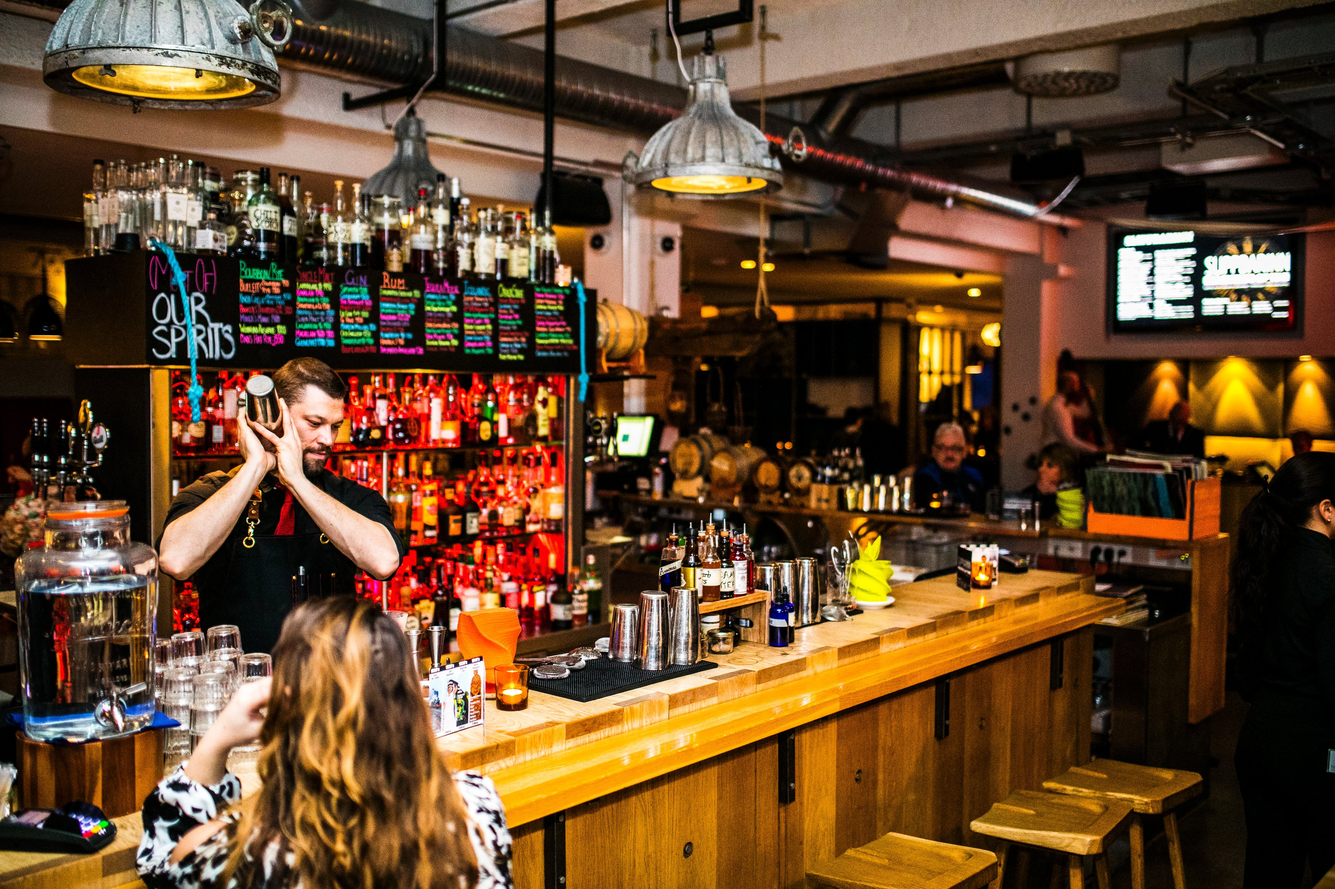
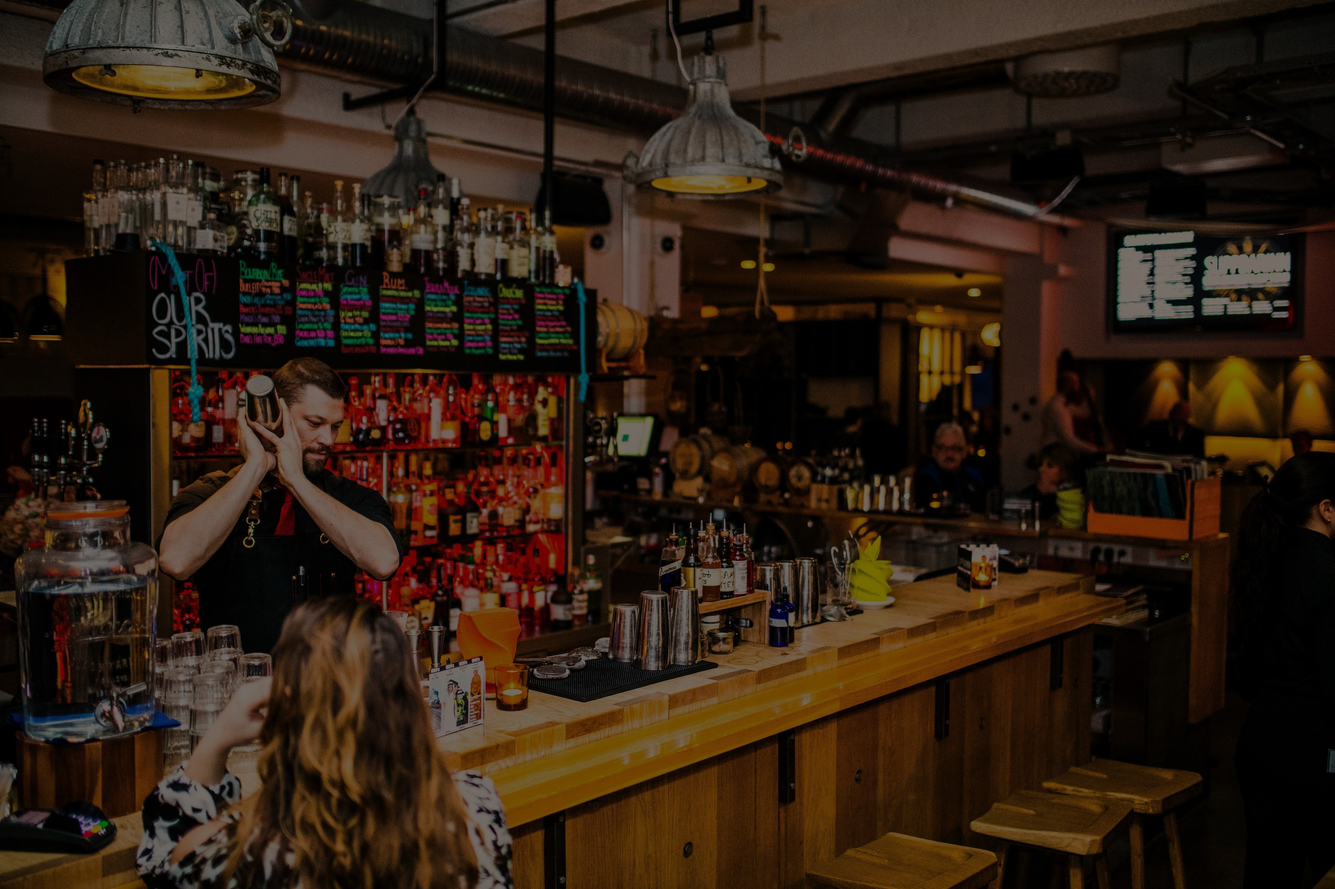
Menu styling

diff --git a/index.html b/index.html
@@ -44,10 +44,13 @@
         <div class="collapse navbar-collapse" id="navbarResponsive">
           <ul class="navbar-nav ml-auto">
             <li class="nav-item">
-              <a class="nav-link" href="#">Home</a>
+              <a class="nav-link" href="index.html">Home</a>
             </li>
             <li class="nav-item">
-              <a class="nav-link" href="#">Menu</a>
+              <a class="nav-link" href="menu.html">Menu</a>
+            </li>
+            <li class="nav-item">
+              <a class="nav-link" href="http://BandsWithLegends.com">Contact</a>
             </li>
             <li class="ml-4">
               <div class="fb-like" data-href="http://bandswithlegends.com/BarsOfMirrodin" data-width="200" data-layout="standard" data-action="recommend" data-size="large" data-show-faces="false" data-share="true"></div>
@@ -204,7 +207,40 @@
     <!-- Footer -->
     <footer class="py-5 bg-black">
       <div class="container">
-        <p class="m-0 text-center text-white small">Copyright &copy; BandsWithLegends 2018</p>
+        <ul class="row list-unstyled">
+          <li class="ml-auto">
+            <p class="m-0 text-center text-white small">Copyright &copy; BandsWithLegends 2018</p>
+          </li>
+          <li class="ml-4">
+            <a href="https://www.facebook.com/Bars-of-Mirrodin-287543865193367" target="_blank">
+              <svg viewBox="0 0 24 24" height="36px" width="36px" class="footer-social-icon">
+                <path xmlns="http://www.w3.org/2000/svg" fill="#3B5998" d="M22.676 0H1.324C.593 0 0 .593 0 1.324v21.352C0 23.408.593 24 1.324 24h11.494v-9.294H9.689v-3.621h3.129V8.41c0-3.099 1.894-4.785 4.659-4.785 1.325 0 2.464.097 2.796.141v3.24h-1.921c-1.5 0-1.792.721-1.792 1.771v2.311h3.584l-.465 3.63H16.56V24h6.115c.733 0 1.325-.592 1.325-1.324V1.324C24 .593 23.408 0 22.676 0"></path>
+              </svg>
+            </a>
+          </li>
+          <li class="ml-4">
+            <a href="https://www.twitter.com/BandsWithLegend" target="_blank">
+              <svg viewBox="0 0 24 24" height="36px" width="36px" class="footer-social-icon">
+                <path xmlns="http://www.w3.org/2000/svg" fill="#1DA1F2" d="M23.954 4.569c-.885.389-1.83.654-2.825.775 1.014-.611 1.794-1.574 2.163-2.723-.951.555-2.005.959-3.127 1.184-.896-.959-2.173-1.559-3.591-1.559-2.717 0-4.92 2.203-4.92 4.917 0 .39.045.765.127 1.124C7.691 8.094 4.066 6.13 1.64 3.161c-.427.722-.666 1.561-.666 2.475 0 1.71.87 3.213 2.188 4.096-.807-.026-1.566-.248-2.228-.616v.061c0 2.385 1.693 4.374 3.946 4.827-.413.111-.849.171-1.296.171-.314 0-.615-.03-.916-.086.631 1.953 2.445 3.377 4.604 3.417-1.68 1.319-3.809 2.105-6.102 2.105-.39 0-.779-.023-1.17-.067 2.189 1.394 4.768 2.209 7.557 2.209 9.054 0 13.999-7.496 13.999-13.986 0-.209 0-.42-.015-.63.961-.689 1.8-1.56 2.46-2.548l-.047-.02z"></path>
+              </svg>
+            </a>
+          </li>
+          <li class="ml-4">
+            <a href="https://www.instagram.com" target="_blank">
+              <svg viewBox="0 0 24 24" height="36px" width="36px" class="footer-social-icon">
+                <path xmlns="http://www.w3.org/2000/svg" fill="#E4405F" d="M12 0C8.74 0 8.333.015 7.053.072 5.775.132 4.905.333 4.14.63c-.789.306-1.459.717-2.126 1.384S.935 3.35.63 4.14C.333 4.905.131 5.775.072 7.053.012 8.333 0 8.74 0 12s.015 3.667.072 4.947c.06 1.277.261 2.148.558 2.913.306.788.717 1.459 1.384 2.126.667.666 1.336 1.079 2.126 1.384.766.296 1.636.499 2.913.558C8.333 23.988 8.74 24 12 24s3.667-.015 4.947-.072c1.277-.06 2.148-.262 2.913-.558.788-.306 1.459-.718 2.126-1.384.666-.667 1.079-1.335 1.384-2.126.296-.765.499-1.636.558-2.913.06-1.28.072-1.687.072-4.947s-.015-3.667-.072-4.947c-.06-1.277-.262-2.149-.558-2.913-.306-.789-.718-1.459-1.384-2.126C21.319 1.347 20.651.935 19.86.63c-.765-.297-1.636-.499-2.913-.558C15.667.012 15.26 0 12 0zm0 2.16c3.203 0 3.585.016 4.85.071 1.17.055 1.805.249 2.227.415.562.217.96.477 1.382.896.419.42.679.819.896 1.381.164.422.36 1.057.413 2.227.057 1.266.07 1.646.07 4.85s-.015 3.585-.074 4.85c-.061 1.17-.256 1.805-.421 2.227-.224.562-.479.96-.899 1.382-.419.419-.824.679-1.38.896-.42.164-1.065.36-2.235.413-1.274.057-1.649.07-4.859.07-3.211 0-3.586-.015-4.859-.074-1.171-.061-1.816-.256-2.236-.421-.569-.224-.96-.479-1.379-.899-.421-.419-.69-.824-.9-1.38-.165-.42-.359-1.065-.42-2.235-.045-1.26-.061-1.649-.061-4.844 0-3.196.016-3.586.061-4.861.061-1.17.255-1.814.42-2.234.21-.57.479-.96.9-1.381.419-.419.81-.689 1.379-.898.42-.166 1.051-.361 2.221-.421 1.275-.045 1.65-.06 4.859-.06l.045.03zm0 3.678c-3.405 0-6.162 2.76-6.162 6.162 0 3.405 2.76 6.162 6.162 6.162 3.405 0 6.162-2.76 6.162-6.162 0-3.405-2.76-6.162-6.162-6.162zM12 16c-2.21 0-4-1.79-4-4s1.79-4 4-4 4 1.79 4 4-1.79 4-4 4zm7.846-10.405c0 .795-.646 1.44-1.44 1.44-.795 0-1.44-.646-1.44-1.44 0-.794.646-1.439 1.44-1.439.793-.001 1.44.645 1.44 1.439z"></path>
+              </svg>
+            </a>
+          </li>
+          <li class="ml-4">
+            <a href="https://www.twitter.com/BandsWithLegend" target="_blank">
+              <svg viewBox="0 0 24 24" height="36px" width="36px" class="footer-social-icon">
+                <path xmlns="http://www.w3.org/2000/svg" fill="#BD081C" d="M12.017 0C5.396 0 .029 5.367.029 11.987c0 5.079 3.158 9.417 7.618 11.162-.105-.949-.199-2.403.041-3.439.219-.937 1.406-5.957 1.406-5.957s-.359-.72-.359-1.781c0-1.663.967-2.911 2.168-2.911 1.024 0 1.518.769 1.518 1.688 0 1.029-.653 2.567-.992 3.992-.285 1.193.6 2.165 1.775 2.165 2.128 0 3.768-2.245 3.768-5.487 0-2.861-2.063-4.869-5.008-4.869-3.41 0-5.409 2.562-5.409 5.199 0 1.033.394 2.143.889 2.741.099.12.112.225.085.345-.09.375-.293 1.199-.334 1.363-.053.225-.172.271-.401.165-1.495-.69-2.433-2.878-2.433-4.646 0-3.776 2.748-7.252 7.92-7.252 4.158 0 7.392 2.967 7.392 6.923 0 4.135-2.607 7.462-6.233 7.462-1.214 0-2.354-.629-2.758-1.379l-.749 2.848c-.269 1.045-1.004 2.352-1.498 3.146 1.123.345 2.306.535 3.55.535 6.607 0 11.985-5.365 11.985-11.987C23.97 5.39 18.592.026 11.985.026L12.017 0z"></path>
+              </svg>
+            </a>
+          </li>
+        </ul>
+
       </div>
       <!-- /.container -->
     </footer>

diff --git a/menu.html b/menu.html
@@ -19,7 +19,7 @@
   <link href="css/menu.css" rel="stylesheet">
 </head>
 <body>
-<img src="img/barbackground.jpg" alt="" id="menu-background">
+<!--<div class="bg-image">-->
 <nav class="navbar navbar-expand-lg navbar-dark navbar-custom fixed-top">
   <div class="container">
     <a class="navbar-brand" href="index.html">Bars of Mirrodin</a>
@@ -38,10 +38,8 @@
     </div>
   </div>
 </nav>
-<div class="menu-body">
 
   <!--Drinks-->
-
   <table class="table table-hover table-dark menu-table">
     <thead>
     <tr>
@@ -95,9 +93,11 @@
   </table>
 
   <!--Food-->
-  <p class="menu-title">Munchies</p>
   <table class="table table-hover table-dark menu-table">
     <thead>
+    <tr>
+      <th class="menu-title">Munchies</th>
+    </tr>
     <tr>
       <th scope="col">Name</th>
       <th scope="col">Description</th>
@@ -146,69 +146,67 @@
   </table>
 
   <!--Dessert-->
-  <p class="menu-title">Sweets</p>
-  <table class="table table-hover table-dark menu-table">
-    <thead>
-    <tr>
-      <th scope="col">Name</th>
-      <th scope="col">Description</th>
-      <th scope="col">Ingredients</th>
-      <th scope="col">Price</th>
-    </tr>
-    </thead>
-    <tbody>
-    <tr>
-      <th scope="row">A big pretzel</th>
-      <td>Burgdoggen t-bone tenderloin fatback, frankfurter shank andouille porchetta pork belly shankle prosciutto. </td>
-      <td>Oak by Absolut, Cabernet, Orange zest</td>
-      <td>6</td>
-    </tr>
-    <tr>
-      <th scope="row">Bigger Pretzel</th>
-      <td> Turkey corned beef spare ribs picanha. </td>
-      <td>Blue Curacao, Watermelon liquor, and Stoli</td>
-      <td>9</td>
-    </tr>
-    <tr>
-      <th scope="row">Dank Steel</th>
-      <td>Hamburger swine sirloin pork loin t-bone turkey tail filet mignon tongue shank shoulder doner kielbasa landjaeger. </td>
-      <td>Steel Reserve, Hennessy, and Crown Royal</td>
-      <td>8</td>
-    </tr>
-    <tr>
-      <th scope="row">A Fifth of Dawn</th>
-      <td>Landjaeger pancetta bacon shankle, tongue pork loin bresaola jerky jowl tri-tip boudin fatback shoulder doner.</td>
-      <td>Tequila Sunrise served in a dawn bottle</td>
-      <td>8</td>
-    </tr>
-    <tr>
-      <th scope="row">Poisonous Punch</th>
-      <td>Capicola porchetta tail, ham hock biltong jowl landjaeger pastrami ground round frankfurter rump cow short ribs bresaola.</td>
-      <td>Steel Reserve, Hennessy, and Crown Royal</td>
-      <td>8</td>
-    </tr>
-    <tr>
-      <th scope="row">Dark Steel Burger Challenge</th>
-      <td> Brisket turducken swine pork, tri-tip hamburger ribeye short ribs. T-bone landjaeger tenderloin pork loin. </td>
-      <td>Steel Reserve, Hennessy, and Crown Royal</td>
-      <td>50</td>
-    </tr>
-    </tbody>
-  </table>
-</div>
+    <table class="table table-hover table-dark menu-table">
+      <thead>
+      <tr>
+        <th class="menu-title">Sweets</th>
+      </tr>
+      <tr>
+        <th scope="col">Name</th>
+        <th scope="col">Description</th>
+        <th scope="col">Ingredients</th>
+        <th scope="col">Price</th>
+      </tr>
+      </thead>
+      <tbody>
+      <tr>
+        <th scope="row">A big pretzel</th>
+        <td>Burgdoggen t-bone tenderloin fatback, frankfurter shank andouille porchetta pork belly shankle prosciutto. </td>
+        <td>Oak by Absolut, Cabernet, Orange zest</td>
+        <td>6</td>
+      </tr>
+      <tr>
+        <th scope="row">Bigger Pretzel</th>
+        <td> Turkey corned beef spare ribs picanha. </td>
+        <td>Blue Curacao, Watermelon liquor, and Stoli</td>
+        <td>9</td>
+      </tr>
+      <tr>
+        <th scope="row">Dank Steel</th>
+        <td>Hamburger swine sirloin pork loin t-bone turkey tail filet mignon tongue shank shoulder doner kielbasa landjaeger. </td>
+        <td>Steel Reserve, Hennessy, and Crown Royal</td>
+        <td>8</td>
+      </tr>
+      <tr>
+        <th scope="row">A Fifth of Dawn</th>
+        <td>Landjaeger pancetta bacon shankle, tongue pork loin bresaola jerky jowl tri-tip boudin fatback shoulder doner.</td>
+        <td>Tequila Sunrise served in a dawn bottle</td>
+        <td>8</td>
+      </tr>
+      <tr>
+        <th scope="row">Poisonous Punch</th>
+        <td>Capicola porchetta tail, ham hock biltong jowl landjaeger pastrami ground round frankfurter rump cow short ribs bresaola.</td>
+        <td>Steel Reserve, Hennessy, and Crown Royal</td>
+        <td>8</td>
+      </tr>
+      <tr>
+        <th scope="row">Dark Steel Burger Challenge</th>
+        <td> Brisket turducken swine pork, tri-tip hamburger ribeye short ribs. T-bone landjaeger tenderloin pork loin. </td>
+        <td>Steel Reserve, Hennessy, and Crown Royal</td>
+        <td>50</td>
+      </tr>
+      </tbody>
+    </table>
 
+  <!-- Footer -->
+  <footer class="py-5 bg-black mt-4">
+    <div class="container">
+      <p class="m-0 text-center text-white small">Copyright &copy; BandsWithLegends 2018</p>
+    </div>
+    <!-- /.container -->
+  </footer>
+<!--</div>-->
 
-
-
-
-
-<!-- Footer -->
-<footer class="py-5 bg-black">
-  <div class="container">
-    <p class="m-0 text-center text-white small">Copyright &copy; BandsWithLegends 2018</p>
-  </div>
-  <!-- /.container -->
-</footer>
 
 <!-- Bootstrap core JavaScript -->
 <script src="vendor/jquery/jquery.min.js"></script>

diff --git a/css/menu.css b/css/menu.css
@@ -1,15 +1,15 @@
-html,
 body{
-    background-color: black;
+    height:100%;
+    background: black url("../img/barbackground.jpg") no-repeat;
+    background-size: cover;
 }
 
-#menu-background{
-    top:0;
-    opacity:.2;
-    display:inline;
-    position:absolute;
-    z-index:0;
-}
+/*.bg-image{*/
+    /*!*opacity: .2;*!*/
+    /*background: url("../img/barbackground.jpg") no-repeat center;*/
+    /*background-size: cover;*/
+/*}*/
+
 
 .menu-title{
     font-size: 32px;
@@ -21,4 +21,10 @@ body{
     z-index:1;
     margin: 10vh 10vw 0 10vw;
     width:80vw;
+}
+
+footer{
+    position: relative;
+    bottom:0;
+    height:60px;
 }

diff --git a/css/barsOfMirrodin.css b/css/barsOfMirrodin.css
@@ -135,3 +135,8 @@ header.masthead .masthead-content .rounded-pill{
   box-shadow: 0 0 0 0.2rem rgba(50, 56, 55, 0.5);
 }
 
+footer .footer-social-icon{
+  width: 100%;
+  height: auto;
+}
+
